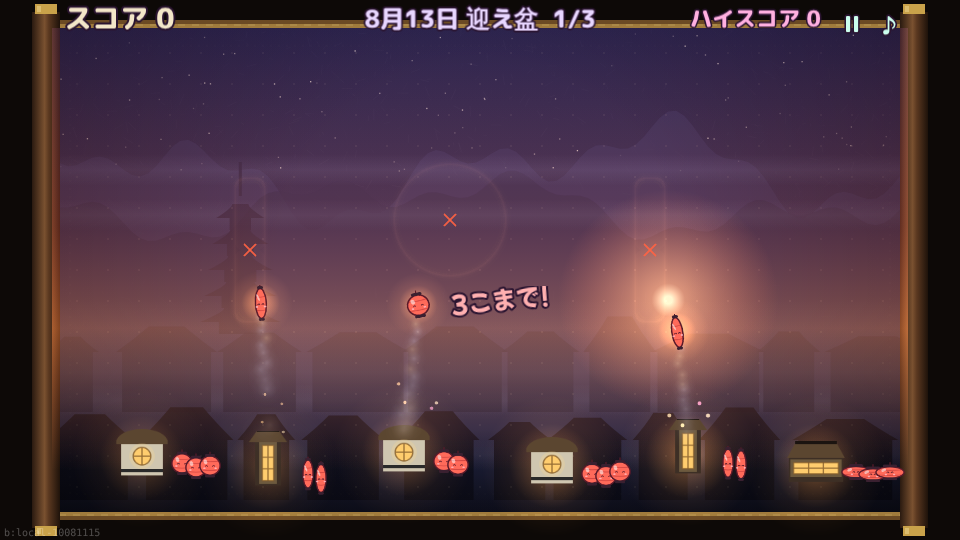
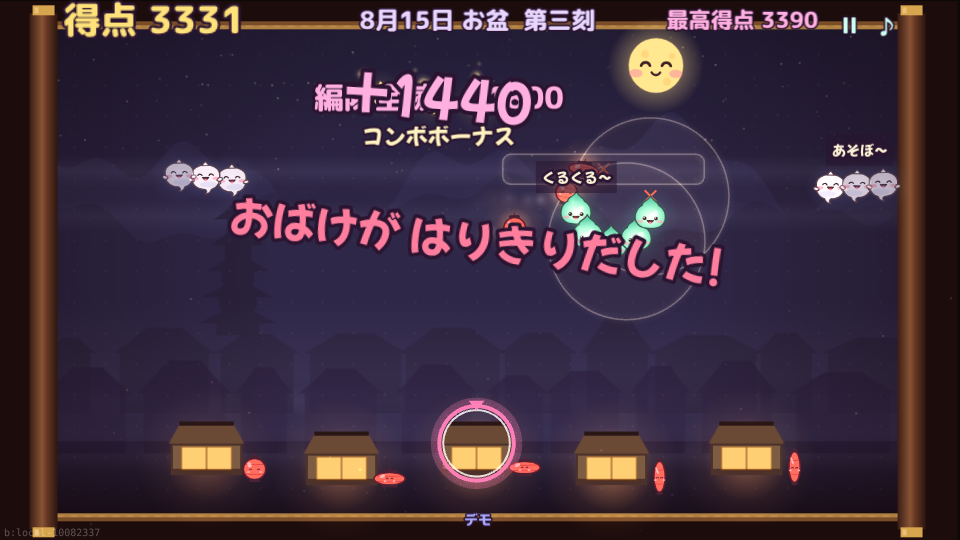
Houses 3/4/5 per day, no per-house ammo, wider light on later days, long column/row/point gathering, day carry-over
Claude-Session: https://claude.ai/code/session_011ZQ4bN2MTkz7EzzsNRZLay

diff --git a/src/game/logic.ts b/src/game/logic.ts
@@ -112,6 +112,7 @@ export type GameEvent =
   | { type: 'watch'; n: number }
   | { type: 'waveEnd'; n: number; bonus: number }
   | { type: 'clear' }
+  | { type: 'houses' }
   | { type: 'fever'; on: boolean }
   | { type: 'enter'; x: number; y: number; house: number; kind: GhostKind; ghost: number }
   | { type: 'ignite'; x: number; y: number }
@@ -158,20 +159,41 @@ export class Game {
     this.rng = new Rng(seed);
     this.wave = startWave;
     this.pieces = PIECE_SETS[P.pieceSet] ?? PIECE_SETS['縦・横・丸'];
-    // 家の形: どの形も必ず 1 軒はある。どこに建つかは毎回変わる
-    const kinds: Piece[] = [...this.pieces];
-    while (kinds.length < HOUSE_POS.length) kinds.push(this.rng.pick(this.pieces));
-    for (let i = kinds.length - 1; i > 0; i--) { const j = this.rng.int(0, i); [kinds[i], kinds[j]] = [kinds[j], kinds[i]]; }
-    this.houses = HOUSE_POS.map(([x, y], i) => ({ x, y, lit: true, ammo: P.ammoPerHouse, regen: 0, haunt: 0, flash: 0, piece: kinds[i] }));
+    this.buildHouses(dayOf(startWave));
     this.groups = waveGroups(startWave, this.rng);
   }
 
+  /**
+   * その日の家を建てる: 1 日目 3 軒・2 日目 4 軒・3 日目 5 軒、横に等間隔。
+   * 形(縦・横・丸)はどれも必ず 1 軒はあり、どこに建つかは毎回変わる。提灯はいくらでも投げられる(数えない)
+   */
+  private buildHouses(day: number, carry?: number) {
+    const n = 3 + Math.min(2, day);
+    const kinds: Piece[] = [...this.pieces];
+    while (kinds.length < n) kinds.push(this.rng.pick(this.pieces));
+    kinds.length = n;
+    for (let i = kinds.length - 1; i > 0; i--) { const j = this.rng.int(0, i); [kinds[i], kinds[j]] = [kinds[j], kinds[i]]; }
+    const x0 = HOUSE_POS[0][0], x1 = HOUSE_POS[HOUSE_POS.length - 1][0];
+    this.houses = kinds.map((piece, i) => ({
+      x: Math.round(x0 + ((x1 - x0) * (i + 0.5)) / n + (n === 3 ? 0 : 0)), y: HOUSE_POS[i % 2][1],
+      lit: true, ammo: 1, regen: 0, haunt: 0, flash: 0, piece,
+    }));
+    // 前の日に守り切った家の数 + carryBonus 軒だけ灯る(残りは最初からのっとられたまま = 前の日の出来が響く)
+    if (carry !== undefined) {
+      const lit = Math.min(n, carry + this.P.carryBonus);
+      // 消えている家は端からではなく、ばらけるように
+      const order = [...this.houses.keys()].sort((a, b) => ((a * 7) % n) - ((b * 7) % n));
+      order.slice(lit).forEach((i) => { this.houses[i].lit = false; this.houses[i].takenForm = -1; });
+    }
+    this.selected = -1;
+  }
+
   get litCount() { return this.houses.filter((h) => h.lit).length; }
-  get ammo() { return this.houses.reduce((s, h) => s + (h.lit ? h.ammo : 0), 0); }
+  get ammo() { return this.litCount; }
   get waveCount() { return WAVE_COUNT; }
   /** 画面に同時に置ける提灯の数: 1 日目 3・2 日目 4・3 日目 5(lantern.max + 日) */
-  get maxOnField() { return this.P.maxLanterns + Math.min(2, dayOf(this.wave)); }
-  canThrow(i: number) { const h = this.houses[i]; return !!h && h.lit && h.ammo > 0 && h.haunt <= 0; }
+  get maxOnField() { return this.P.maxLanterns; }
+  canThrow(i: number) { const h = this.houses[i]; return !!h && h.lit && h.haunt <= 0; }
 
   /** 一番近い灯りの家 */
   nearestLit(x: number, y: number): number {
@@ -222,7 +244,7 @@ export class Game {
       this.events.push({ type: 'deny', x, y }); return;
     }
     const h = this.houses[from];
-    h.ammo--;
+    // 提灯の数はもう数えない(置ける数だけ。家ごとの在庫は無し)
     // 選んだ家はそのまま(続けてその家から投げられる)。外れるのは、同じ家をもう一度押す・他の家を押す・弾が無くなった時
     const sy = h.y - 14;
     this.lanterns.push({ id: this.nextId++, piece: h.piece, tx: x, ty: y, sx: h.x, sy, x: h.x, y: sy, flying: true, flyT: 0, flyDur: this.flightTime(x, y, from), age: 0 });
@@ -230,7 +252,11 @@ export class Game {
   }
 
   /** 光の形の長さ(中心から。丸は半径) */
-  reach(piece: Piece) { return piece === 'area' ? this.P.areaReach : piece === 'cross' ? this.P.lineReach * 0.7 : this.P.lineReach; }
+  /** 光の届く長さ。2 日目・3 日目は広くなる(置ける数は増えない) */
+  reach(piece: Piece) {
+    const k = 1 + this.P.reachGrow * Math.min(2, dayOf(this.wave));
+    return (piece === 'area' ? this.P.areaReach : piece === 'cross' ? this.P.lineReach * 0.7 : this.P.lineReach) * k;
+  }
   /** 光の帯の長さ(px)。どの所も同じ間(light.hold 秒)だけ照らされる */
   get band() { return Math.max(10, this.P.lightHold * this.P.lightSpeed); }
 
@@ -330,13 +356,7 @@ export class Game {
       if (k >= 1) { l.flying = false; this.events.push({ type: 'light', x: l.x, y: l.y }); }
     }
 
-    // 軒先の提灯は時間で少しずつ戻る
-    for (const h of this.houses) {
-      h.flash = Math.max(0, h.flash - dt);
-      if (!h.lit || h.ammo >= P.ammoPerHouse) { h.regen = 0; continue; }
-      h.regen += dt;
-      if (h.regen >= P.regenTime) { h.regen = 0; h.ammo++; }
-    }
+    for (const h of this.houses) h.flash = Math.max(0, h.flash - dt);
 
     this.moveGhosts(dt);
     this.runBlasts(dt);
@@ -387,14 +407,11 @@ export class Game {
       // 日が変わる時(次の晩): 家はみんな灯り直し、提灯も満タン
       if (dayOf(this.wave + 1) !== dayOf(this.wave)) {
         this.pause = WAVE_PAUSE + 1.5;
-        // 次の日: 消えた家のうち dayRelight 軒だけ灯り直す(全部は戻らない = 守った家の数が次の日に響く)
-        let back = this.P.dayRelight;
-        for (const h of this.houses) {
-          if (!h.lit) { if (back <= 0) continue; back--; h.lit = true; h.takenForm = undefined; }
-          h.ammo = this.P.ammoPerHouse; h.regen = 0; h.flash = 0.4;
-        }
-        this.selected = -1;
+        // 次の日: 家を建て直す(1 日目 3 軒 → 2 日目 4 軒 → 3 日目 5 軒)
         this.events.push({ type: 'dayEnd', day: dayOf(this.wave) });
+        this.buildHouses(dayOf(this.wave + 1), this.P.carryBonus >= 9 ? undefined : this.litCount);
+        for (const h of this.houses) h.flash = 0.4;
+        this.events.push({ type: 'houses' });
       }
       this.groups = waveGroups(this.wave + 1, this.rng);
     }
@@ -409,7 +426,9 @@ export class Game {
       x = gr.edge < 0 ? PLAY.x0 - 30 : PLAY.x1 + 30;
       y = Math.round(PLAY.y0 + (HOUSE_POS[0][1] - 40 - PLAY.y0) * (gr.turn ?? 0.4));
     }
-    let target = gr.to !== undefined && this.houses[gr.to]?.lit ? gr.to : this.nearestLit(x, y);
+    // 波のデータの家番号(0〜5)を、その日の家の数に合わせて読み替える
+    const to = gr.to !== undefined ? Math.round((gr.to * (this.houses.length - 1)) / 5) : undefined;
+    let target = to !== undefined && this.houses[to]?.lit ? to : this.nearestLit(x, y);
     // 同じ隊列の仲間が先に出ていれば、同じ家を狙う(群れがばらけない)
     const mate = this.ghosts.find((o) => !o.dead && o.form === form && this.houses[o.target]?.lit);
     if (mate) target = mate.target;
@@ -424,10 +443,24 @@ export class Game {
       : this.makePath(kind, x, y, this.houses[target], gr.side ?? 1, gr.turn ?? (kind === 'kasa' ? 0.28 : 0.45));
     // 集まる所(via): 2・3 日目は、どの組もいったん同じ縦の筋に集まってから、それぞれの家へ降りる。
     // 道のりが長くなって(やられるまでの時間が延びる)、筋に縦の提灯を置けばまとめて倒せる
+    if (gr.viaRow !== undefined && kind !== 'oni' && kind !== 'inazuma' && !gr.march) {
+      // 横の筋に集まる: その高さで反対側の端まで渡り、引き返して家の上で降りる(横に長くまとまる)
+      const h = this.houses[target], ry = gr.viaRow, far = x < (PLAY.x0 + PLAY.x1) / 2 ? PLAY.x1 - 60 : PLAY.x0 + 60;
+      g.path = [[x, y], [x, ry], [far, ry], [h.x, ry], [h.x, h.y]];
+    }
     if (gr.via !== undefined && kind !== 'oni' && kind !== 'inazuma' && !gr.march) {
       const h = this.houses[target], top = Math.max(y, PLAY.y0);
-      const t1 = gr.edge ? y : top + (h.y - 40 - top) * 0.22, t2 = Math.max(t1 + 60, top + (h.y - 40 - top) * 0.62);
-      g.path = [[x, y], [x, t1], [gr.via, t1], [gr.via, t2], [h.x, t2], [h.x, h.y]];
+      if (gr.viaY !== undefined) {
+        // 1 点に集まる: いったんその点へ寄ってから家へ
+        const R = 48, cx = gr.via, cy = gr.viaY, pts: Array<[number, number]> = [[x, y], [x, Math.min(cy - R - 20, Math.max(y, PLAY.y0 + 10))]];
+        for (let k = 0; k <= 16; k++) { const a = -Math.PI / 2 + (k / 16) * Math.PI * 2; pts.push([cx + Math.cos(a) * R, cy + Math.sin(a) * R]); }
+        pts.push([h.x, cy + R + 30], [h.x, h.y]);
+        g.path = pts;
+      } else {
+        // 縦の筋に集まる: 筋を上から下まで長く通る
+        const t1 = gr.edge ? y : top + (h.y - 40 - top) * 0.15, t2 = Math.max(t1 + 90, top + (h.y - 40 - top) * 0.75);
+        g.path = [[x, y], [x, t1], [gr.via, t1], [gr.via, t2], [h.x, t2], [h.x, h.y]];
+      }
     }
     // 横から来る組は家までの道のりが長いので、そのぶん速く(行進は除く)
     if (gr.edge && !gr.march) g.speed *= this.P.sideSpeed;
@@ -684,7 +717,7 @@ export class Game {
       const dark = this.houses.filter((h) => !h.lit);
       if (!dark.length) continue;
       dark.sort((a, b) => Math.hypot(a.x - last[0], a.y - last[1]) - Math.hypot(b.x - last[0], b.y - last[1]));
-      dark[0].lit = true; dark[0].flash = 0.8; dark[0].ammo = 1; dark[0].takenForm = undefined;
+      dark[0].lit = true; dark[0].flash = 0.8; dark[0].takenForm = undefined;
       this.events.push({ type: 'relight', x: dark[0].x, y: dark[0].y, from: last });
     }
   }

diff --git a/src/scenes/Play.ts b/src/scenes/Play.ts
@@ -127,24 +127,7 @@ export class Play extends Phaser.Scene {
     this.moon = this.add.image(0, 0, 'moon_0').setAlpha(0);
     this.hi = load().best;
     this.selFx = this.add.graphics().setDepth(27);
-    for (const h of this.game2.houses) {
-      const glow = this.add.image(h.x, h.y + 6, 'glow').setTint(0xffa040).setBlendMode(Phaser.BlendModes.ADD).setScale(1.1).setAlpha(0.55);
-      // 家の形 = この家から投げる提灯の光の形(縦の楼は縦、長屋は横)
-      // 家の形はどれも同じ(撃てる光の形は軒先の提灯で分かる)。ひと回り大きく
-      const key = 'house_hline';
-      const img = this.add.image(h.x, h.y + 22, `${key}_lit`).setOrigin(0.5, 0.92).setScale(HOUSE_SCALE).setDepth(2);
-      // 軒先に下がる提灯(この家から飛ばせる数。ミサイルコマンドの基地の弾)
-      // 形ごとに重なり具合を変える(横長は広め、縦長は詰める)
-      const step = h.piece === 'hline' ? 17 : h.piece === 'vline' ? 13 : 14;
-      const hang = HANG.map(([, dy], k) => this.add.image(h.x + 46 + k * step, h.y + dy, `lantern_${h.piece}`).setScale(0.56).setDepth(4 + k * 0.01));
-      // 窓の向こうの暗がり(暗い家の窓は穴なので、その後ろに置く)
-      const back = this.add.rectangle(h.x, h.y + 22 + (50 - 66.24) * HOUSE_SCALE, 48 * HOUSE_SCALE, 22 * HOUSE_SCALE, 0x15131c);
-      back.setDepth(1.5).setVisible(false);
-      // のっとられた家の青い魂のオーラと人魂(灯りのついた家・提灯の暖かい色と対比)
-      const aura = this.add.image(h.x, h.y - 6, 'glow').setTint(0x4f7dff).setBlendMode(Phaser.BlendModes.ADD).setDepth(2.6).setVisible(false);
-      const wisps = [0, 1, 2].map(() => this.add.image(h.x, h.y, 'wisp').setTint(0x8fd8ff).setBlendMode(Phaser.BlendModes.ADD).setDepth(2.7).setScale(0.55).setVisible(false));
-      this.houseImgs.push({ img, glow, hang, key, back, aura, wisps, peeks: [] });
-    }
+    this.buildHouseImgs();
     this.fx = this.add.graphics().setDepth(5);
     this.slotFx = this.add.graphics().setDepth(4.5);
     // あせる時間: 画面がうっすら赤く脈打つ
@@ -265,6 +248,28 @@ export class Play extends Phaser.Scene {
     this.updateHud();
     bgmIntensity(g.t / 180);
     if (g.over && !this.ended) this.finish();
+  }
+
+  /** 家の絵を建てる(日が変わると家の数が変わるので建て直す) */
+  private buildHouseImgs() {
+    for (const o of this.houseImgs) { o.img.destroy(); o.glow.destroy(); o.hang.forEach((x) => x.destroy()); o.back.destroy(); o.aura.destroy(); o.wisps.forEach((x) => x.destroy()); o.peeks.forEach((x) => x.destroy()); }
+    this.houseImgs = []; this.peek = [];
+    for (const h of this.game2.houses) {
+      const glow = this.add.image(h.x, h.y + 6, 'glow').setTint(0xffa040).setBlendMode(Phaser.BlendModes.ADD).setScale(1.1).setAlpha(0.55);
+      // 家の形 = この家から投げる提灯の光の形(縦の楼は縦、長屋は横)
+      // 家の形はどれも同じ(撃てる光の形は軒先の提灯で分かる)。ひと回り大きく
+      const key = 'house_hline';
+      const img = this.add.image(h.x, h.y + 22, `${key}_lit`).setOrigin(0.5, 0.92).setScale(HOUSE_SCALE).setDepth(2);
+      // 軒先の提灯 1 つ: この家から投げる光の形(数は数えない)
+      const hang = [this.add.image(h.x + 48, h.y + HANG[0][1], `lantern_${h.piece}`).setScale(0.62).setDepth(4)];
+      // 窓の向こうの暗がり(暗い家の窓は穴なので、その後ろに置く)
+      const back = this.add.rectangle(h.x, h.y + 22 + (50 - 66.24) * HOUSE_SCALE, 48 * HOUSE_SCALE, 22 * HOUSE_SCALE, 0x15131c);
+      back.setDepth(1.5).setVisible(false);
+      // のっとられた家の青い魂のオーラと人魂(灯りのついた家・提灯の暖かい色と対比)
+      const aura = this.add.image(h.x, h.y - 6, 'glow').setTint(0x4f7dff).setBlendMode(Phaser.BlendModes.ADD).setDepth(2.6).setVisible(false);
+      const wisps = [0, 1, 2].map(() => this.add.image(h.x, h.y, 'wisp').setTint(0x8fd8ff).setBlendMode(Phaser.BlendModes.ADD).setDepth(2.7).setScale(0.55).setVisible(false));
+      this.houseImgs.push({ img, glow, hang, key, back, aura, wisps, peeks: [] });
+    }
   }
 
   /** ポーズ: 止めて、戻る / この日のはじめから / タイトルへ を出す */
@@ -414,7 +419,7 @@ export class Play extends Phaser.Scene {
         break;
       case 'formation':
         snd.relight();
-        this.banner(`${t('formation')}!  +${e.bonus}`, e.x, e.y + 40, '#ffb0e0', 30);
+        this.banner(`${t('formation')}!  +${e.bonus}`, e.x, e.y + 95, '#ffb0e0', 26);
         this.cameras.main.shake(160, 0.004);
         break;
       case 'clear':
@@ -466,7 +471,7 @@ export class Play extends Phaser.Scene {
         const first = waveInDay(e.n) === 0;
         if (first) {
           // 日のはじめに、画面に置ける提灯の数(日が変わると 1 つ増える)
-          const up = this.add.text(W / 2, H / 2 + 84, t('maxUp').replace('{n}', String(this.game2.maxOnField)), pop(22, '#9ff0ff')).setOrigin(0.5).setDepth(56).setAlpha(0);
+          const up = this.add.text(W / 2, H / 2 + 84, (dayOf(e.n) === 0 ? t('maxUp').replace('{n}', String(this.game2.maxOnField)) : t('reachUp')), pop(22, '#9ff0ff')).setOrigin(0.5).setDepth(56).setAlpha(0);
           this.tweens.add({ targets: up, alpha: 1, yoyo: true, hold: 1800, duration: 300, delay: 400, onComplete: () => up.destroy() });
         }
         if (first) {
@@ -512,6 +517,10 @@ export class Play extends Phaser.Scene {
         }
         break;
       }
+      case 'houses':
+        // 次の日の家(数が変わる)を建て直す
+        this.buildHouseImgs();
+        break;
       case 'dayEnd': {
         // その晩を凌いだ: 家がみんな灯り直す
         snd.chainEnd(5);
@@ -721,23 +730,8 @@ export class Play extends Phaser.Scene {
         if (cx1 > cx0 && cy1 > cy0) im.setCrop(cx0, cy0, cx1 - cx0, cy1 - cy0); else im.setVisible(false);
       });
       for (let j = list.length; j < o.peeks.length; j++) o.peeks[j].setVisible(false);
-      // 軒先の提灯: ある分は灯る。無い分は点々の輪郭だけ。次に戻る 1 つは、下から灯りが溜まっていく(戻るまでのゲージ)
-      const regenK = Math.min(1, h.regen / P.regenTime);
-      o.hang.forEach((hg, k) => {
-        const y = h.y + HANG[k][1] + Math.sin(time * 2 + k * 1.3 + i) * 1.2;
-        hg.setY(y);
-        if (!h.lit) { hg.setVisible(false); return; }
-        const fw = hg.frame.width, fh = hg.frame.height;
-        if (k < h.ammo) { hg.setVisible(true).setAlpha(1).setCrop(); return; }
-        // 輪郭(点々)
-        const rx = (fw * 0.56) / 2 * 0.9, ry = (fh * 0.56) / 2 * 0.9;
-        this.slotFx.fillStyle(0xffd8a0, 0.55);
-        for (let a = 0; a < 14; a++) this.slotFx.fillCircle(hg.x + Math.cos((a / 14) * Math.PI * 2) * rx, y + Math.sin((a / 14) * Math.PI * 2) * ry, 1);
-        if (k === h.ammo && regenK > 0) {
-          const ch = Math.max(1, Math.round(fh * regenK));
-          hg.setVisible(true).setAlpha(0.85).setCrop(0, fh - ch, fw, ch);
-        } else hg.setVisible(false);
-      });
+      // 軒先の提灯: この家の光の形を見せるだけ(数は数えない)
+      o.hang.forEach((hg, k) => hg.setVisible(h.lit).setY(h.y + HANG[k][1] + Math.sin(time * 2 + k * 1.3 + i) * 1.2));
     });
     // 選んだ家: 家の人が提灯を掲げて待つ(家のマスの縁がほんのり明るい)
     this.selFx.clear();

diff --git a/src/tuning.ts b/src/tuning.ts
@@ -25,20 +25,21 @@ export const KNOBS: Knob[] = [
   { key: 'light.line', label: '縦・横の光の長さ(中心から)', value: 72, min: 20, max: 400, step: 4, unit: 'px', aim: '最初はポーンより少し先まで。遠くへは提灯を並べて誘爆でつなぐ' },
   { key: 'light.width', label: '縦・横の光の太さ', value: 30, min: 8, max: 120, step: 2, unit: 'px' },
   { key: 'light.area', label: '丸の光の半径', value: 56, min: 16, max: 200, step: 4, unit: 'px' },
+  { key: 'light.dayGrow', label: '日ごとに光が広がる割合', value: 0.2, min: 0, max: 0.6, step: 0.05, unit: '倍', aim: '2 日目は 1.2 倍、3 日目は 1.4 倍の長さ・広さ(置ける数は増えない)' },
+  { key: 'house.carry', label: '次の日に灯る家 = 守った家 + この数', value: 1, min: 0, max: 9, step: 1, unit: '軒', aim: '前の日の出来が響く。9 で毎日ぜんぶ灯る' },
   { key: 'light.speed', label: '光の伸びる速さ', value: 150, min: 20, max: 800, step: 10, unit: 'px/秒', aim: 'ゆっくり伸びる。伸びる先におばけが来る時を読む' },
   { key: 'light.hold', label: '光が 1 か所を照らす時間', value: 0.7, min: 0.1, max: 3, step: 0.1, unit: '秒', aim: '光は帯になって伸びる。どこも同じ間だけ照らされる' },
   { key: 'chain.relightAt', label: '家の灯りが戻る連鎖数', value: 12, min: 3, max: 30, step: 1, unit: '連' },
   { key: 'score.base', label: '1体の基本点', value: 10, min: 1, max: 100, step: 1, unit: '点', aim: '1 回の光(と誘爆)の n 体目は基本点 × n' },
   { key: 'score.chain', label: '連鎖ボーナス', value: 160, min: 0, max: 500, step: 10, unit: '点×(n-2)²', aim: '3 連以上' },
   { key: 'score.net', label: '提灯の網の倍率(弾けた提灯 1 つごと)', value: 0, min: 0, max: 2, step: 0.1, unit: '倍', aim: '提灯をつないで網にするほど、その連鎖の点が全部増える(置き方を考える理由)' },
-  { key: 'house.dayRelight', label: '次の日に灯り直す家の数', value: 1, min: 0, max: 6, step: 1, unit: '軒', aim: '少ないほど、前の日に守った家の数が響く(難しさの大きなつまみ)' },
   { key: 'score.big', label: '大入道の点の倍率', value: 5, min: 1, max: 20, step: 1, unit: '倍' },
   { key: 'score.giant', label: '大大入道の点の倍率', value: 12, min: 1, max: 50, step: 1, unit: '倍' },
   { key: 'score.mega', label: '特大入道の点の倍率', value: 25, min: 1, max: 60, step: 1, unit: '倍', aim: '倒した時のごほうび' },
   { key: 'score.formation', label: '編隊ボーナス', value: 40, min: 0, max: 1000, step: 10, unit: '点×数×刻', aim: '一緒に来た群れを、一度の光(と誘爆)で全部倒した時' },
   // 家
   // おばけ(動きは種類ごとに決まっている)
-  { key: 'ghost.speed', label: 'おばけの速さ', value: 30, min: 8, max: 100, step: 1, unit: 'px/秒', aim: '上から家まで約 18 秒' },
+  { key: 'ghost.speed', label: 'おばけの速さ', value: 34, min: 8, max: 100, step: 1, unit: 'px/秒', aim: '上から家まで約 18 秒' },
   { key: 'ghost.loop', label: '鬼火の輪の半径', value: 38, min: 10, max: 120, step: 2, unit: 'px', aim: '輪を描く間は丸の光が有利' },
   { key: 'ghost.bigHp', label: '大入道の力', value: 5, min: 1, max: 12, step: 1, unit: '回', aim: '光が当たるたびに減って、顔と色が変わる(数字は出さない)' },
   { key: 'ghost.giantHp', label: '大大入道の力', value: 9, min: 1, max: 20, step: 1, unit: '回' },

diff --git a/src/game/waves.ts b/src/game/waves.ts
@@ -33,6 +33,10 @@ export interface Group {
   edge?: number;
   /** 集まる所の x(px)。あれば、いったんこの縦の筋に集まってから家へ降りる */
   via?: number;
+  /** 集まる点の y(px)。via と両方あれば、その 1 点にみんな集まる(丸の提灯で) */
+  viaY?: number;
+  /** 集まる横の筋の y(px)。この高さで横に長く渡ってから家へ(横の提灯で) */
+  viaRow?: number;
   /** 行進(インベーダー): 端から端へ渡っては 1 段ずつ下がる(edge と一緒に使う) */
   march?: boolean;
 }
@@ -143,8 +147,12 @@ export function waveGroups(n: number, rng: Rng): Group[] {
   if (n < WAVES.length) {
     // 2・3 日目は、刻ごとに決まった縦の筋へみんなが集まってから家へ(狙ってまとめて倒しやすく、家までの道も長く)
     // 3 日目は第一・第二刻だけ集まりを弱める(筋に寄らない組を混ぜる)代わりに、総力戦は少し軽く
-    const via = n >= WAVES_PER_DAY ? [300, 480, 660][n % 3] : undefined;
-    return WAVES[n].map((g, k) => ({ ...g, via: n >= 2 * WAVES_PER_DAY && n < WAVES.length - 1 && k % 2 ? undefined : via }));
+    // 2・3 日目は刻ごとに集まり方が変わる: 縦の筋(縦の提灯)/ 横の筋(横の提灯)/ 1 点(丸の提灯)。長くまとまって通る
+    if (n < WAVES_PER_DAY) return WAVES[n].map((g) => ({ ...g }));
+    const mode = n % 3, x = [300, 480, 660][(n * 2) % 3];
+    return WAVES[n].map((g) => mode === 0 ? { ...g, via: x }
+      : mode === 1 ? { ...g, viaRow: 230 }
+      : { ...g, via: x, viaY: 250 });
   }
   const keys = Object.keys(PATTERNS);
   const out: Group[] = [];

diff --git a/src/core/i18n.ts b/src/core/i18n.ts
@@ -43,6 +43,7 @@ const TABLE: Record<string, { ja: string; en: string }> = {
   maxOnField: { ja: '{n}こまで!', en: 'Only {n}!' },
   maxUp: { ja: 'ちょうちんは {n}つまで おけるよ!  れんさで パワーUP!', en: 'Up to {n} lanterns! Chain them to POWER UP!' },
   power: { ja: 'パワー', en: 'POWER' },
+  reachUp: { ja: 'ちょうちんの光が ひろくなったよ!', en: 'Lantern light reaches farther!' },
   fever: { ja: 'おばけが はりきりだした!', en: 'The ghosts are revved up!' },
   ouch: { ja: 'いたっ!|ひゃん!|あうっ!|いたた〜|きゃっ!', en: 'Ow!|Eek!|Ouch!|Owie~|Yip!' },
   lock: { ja: '発射位置ロック!', en: 'Lock launcher!' },

diff --git a/src/game/params.ts b/src/game/params.ts
@@ -20,7 +20,8 @@ export function readParams() {
     chainPad: tune('chain.pad'),
     lureR: tune('lantern.lure'),
     netMult: tune('score.net'),
-    dayRelight: tune('house.dayRelight'),
+    reachGrow: tune('light.dayGrow'),
+    carryBonus: tune('house.carry'),
     feverAt: tune('fever.at'),
     feverDur: tune('fever.dur'),
     feverMult: tune('fever.mult'),

diff --git a/HANDOFF.md b/HANDOFF.md
@@ -2,10 +2,10 @@
 
 <!-- セッション終了時に AI が更新。別の AI が読んで続きを始められる内容にする。 -->
 
-## 現状(2026-10-08 57 回目まで。公開中: https://mukkii-game.github.io/obake-chochin/ )
+## 現状(2026-10-08 58 回目まで。公開中: https://mukkii-game.github.io/obake-chochin/ )
 遊びの芯: 押して離した所へ家から提灯が飛び、着いて 3 秒で弾ける。光が他の提灯の範囲の縁に触れると 0.2 秒ずつ順に誘爆(ぴん、ぽん、ぱーん)。光の形(縦・横・丸)は家ごとに違い、軒先の提灯の形で分かる(家の絵はどれも同じ長屋)。
 - **日と刻**: 8/13 迎え盆・8/14 中日・8/15 お盆 × 第一〜第三刻 = 9 刻(src/game/waves.ts の WAVES と WAVE_NAMES)。題: 幽霊の行列 / 唐傘の横渡り / 鬼火の輪と大入道 / はやて / おばけの行進 / 大入道とざこたち / はさみうち / 大入道まつり / 総力戦!。8/15 を凌ぐとエンディング(src/scenes/Ending.ts、スタッフロール)→ 結果。日が変わると家は全部灯り直す。
-- **置ける数**: 画面に 1 日目 3・2 日目 4・3 日目 5(lantern.max + 日)。日のはじめに「ちょうちんは 3つまで おけるよ! れんさで パワーUP!」。いっぱいの時はカーソルの置き場所の枠が点滅するだけ、押すと「3こまで!」。
+- **家と提灯**: 家は 1 日目 3・2 日目 4・3 日目 5 軒。提灯の在庫は無く、画面に置けるのは 3 つまで。2・3 日目は光が 1.2・1.4 倍に広がる。次の日に灯る家 = 守った家 + 1。2・3 日目のおばけは刻ごとに縦の筋 / 横の筋 / 1 点に長くまとまる。日のはじめに「ちょうちんは 3つまで おけるよ! れんさで パワーUP!」。いっぱいの時はカーソルの置き場所の枠が点滅するだけ、押すと「3こまで!」。
 - **コンボ**: 倒すたびにその場で「2コンボ!」…。k 発目の光は大きさ +12%/発(4 段まで)、力 1・1・2・2・3。締めにコンボボーナス 160×(n-2)²(得点の主役。待つほど点、ただし家が危ない)。
 - **敵**: 幽霊(縦)/ 唐傘(横)/ 鬼火(輪)/ 大入道 hp5・大大入道 hp9・特大入道 hp18(当たると小さな悲鳴)(ときどき。小さくならず、顔と色が段階で変わる)/ はやて(2.1 倍)/ いなずま(4.2 倍、3 体が詰めて斜めと横に 1500px 曲がってから家へ)/ 行進(インベーダー)/ 横から一列(1.3 倍)。家の 70px 手前で 2.2 倍に飛び込み、触れたら即その家は消える(縮まず窓の向こうへ入り、窓の穴から見える所だけ見える)。1 匹がのっとると同じ隊列の仲間もその家へ入る(窓に何匹も並ぶ)。のっとられた家は青い魂のオーラと人魂(暖色の家と対比)。軒先の提灯は、無い分が点々の輪郭、次の 1 つが下から溜まるゲージ。置いた音はカシャッ(Kenney)。BGM は 0.28 と控えめ。最後の一匹か一隊列になったら 2 倍で急ぐ。家の高さの線(GROUND_Y)より下へは家に入る時しか降りず、他の家へはいったん上がってから。
 - **操作**: 家をタップ = 発射位置ロック(ピンクの輪、もう一度・右クリックで解除)。家に寄せると「発射位置ロック!」/「ロック解除!」。家より下へは投げられない(表示はしない)。ESC / 右上の II でポーズ(もどる・その日のはじめから・タイトルへ)。タイトルは操作説明だけ + めんセレクト(1・2・3 キー)。負けたらコンボの数え 9→0 のコンティニュー(その日のはじめから、得点 0)。

diff --git a/SPEC.md b/SPEC.md
@@ -40,3 +40,5 @@
 - 弾: 軒先の提灯(1 軒 3 つ。家の右横に縦に並ぶので残りが一目で分かる)。6 秒に 1 つ戻る。
 - 音: タイトルは無音。始まりにかわいい声で「おばけが、くるぞー!」(Open JTalk + HTS Voice Mei)。遊ぶ間の BGM は魔王魂のアイドル・ダンス曲(サイバー16)。和風にはしない。音量は控えめ(つまみ `audio.sfx` `audio.music`)。効果音は和の楽器の合成(太鼓・鈴・拍子木・寺の鐘)。弾ける音は「ばしゅーん」(Kenney の CC0 音を 2 つ重ねた)で、連爆の n 個目ほど都節の音階で高くなる(5 個目で 1 オクターブ上)。
 - 絵: 手続きで描く。`public/art/manifest.json` でキーごとに画像へ差し替えられる(tools/art/)。
+
+- (58 回目)家は 1 日目 3・2 日目 4・3 日目 5 軒。提灯は数えない(置けるのは 3 つまで)。2・3 日目は光が広がる。次の日に灯る家 = 守った家 + 1。2・3 日目のおばけは縦の筋 / 横の筋 / 1 点に長くまとまって通る。
